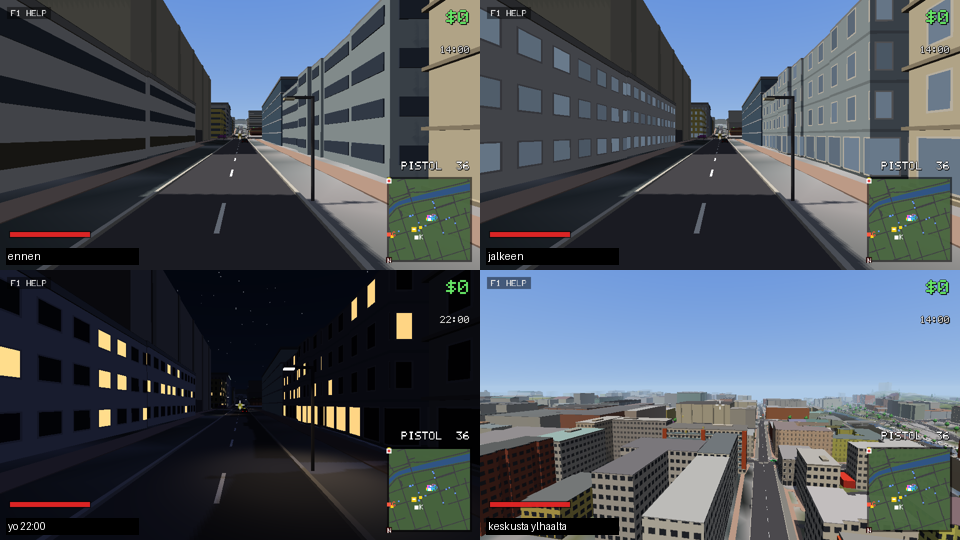
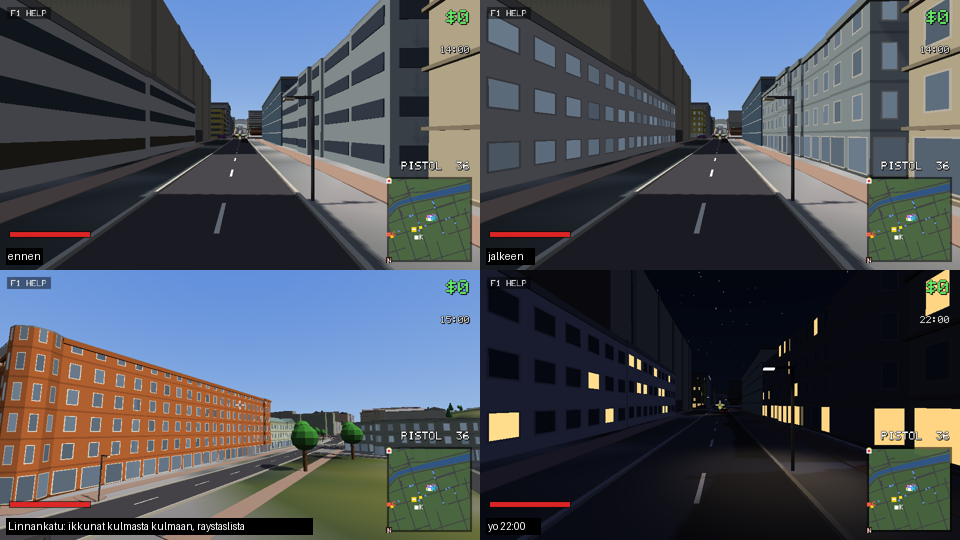
Facades: windows fitted to each wall, cornices on the old town
- Windows were laid out from the world's origin, so walls began and
  ended in half windows. Each wall now holds as many whole bays as fit
  its length: the normal's y byte (free on an upright wall) holds how far
  along it a vertex is, in eighths of a bay; a unit building box stores
  it in 255ths and the vertex shader counts bays from its entity's scale.
- Walls are found as runs of vertices facing the same way, not by plane:
  on a long wall the normal's rounding split its ends into two planes and
  the whole of Linnankatu's 120 m front had no windows.
- Old-town buildings get a cornice under the roof (boxes and outlines).

Full suite here (run_tests.py --jobs 4): 60/60; landmark render checks OK.

diff --git a/src/mesh.rs b/src/mesh.rs
@@ -12,7 +12,9 @@ use std::path::Path;
 pub struct Vertex {
     pub pos: [f32; 3],
     /// Unit normal, each axis -1..1 stored as 0..254 (127 is zero); w is
-    /// the facade the shader draws windows of on a wall (0: none).
+    /// the facade the shader draws windows of on a wall (0: none; see
+    /// `set_facade`). A facade's wall is upright, so its y is free and holds
+    /// how far along the wall the vertex is, in window bays.
     pub normal: [u8; 4],
     /// Color 0..255. Alpha is emissive: 0 = lit normally, 255 = glows at
     /// night (headlights, windows, bulbs). On a facade it is instead the
@@ -43,7 +45,8 @@ impl Vertex {
 
     pub fn normal(&self) -> Vec3 {
         let f = |b: u8| (b as f32 - 127.0) / 127.0;
-        v3(f(self.normal[0]), f(self.normal[1]), f(self.normal[2]))
+        let y = if self.normal[3] > 0 { 0.0 } else { f(self.normal[1]) };
+        v3(f(self.normal[0]), y, f(self.normal[2]))
     }
 
     pub fn color(&self) -> Vec3 {
@@ -54,20 +57,36 @@ impl Vertex {
         if self.normal[3] > 0 { 0.0 } else { self.color[3] as f32 / 255.0 }
     }
 
-    /// The facade on this wall (0: none) and its height above the foot (m).
-    pub fn facade(&self) -> (u8, f32) {
-        (self.normal[3], self.color[3] as f32 * FACADE_STEP)
+    /// The facade on this wall (0: none, else as `set_facade` takes it),
+    /// its height above the foot (m) and the byte for how far along it is.
+    pub fn facade(&self) -> (u8, f32, u8) {
+        (self.normal[3], self.color[3] as f32 * FACADE_STEP, self.normal[1])
     }
 
-    /// Mark as facade `id` at `height` m above the building's foot.
-    pub fn set_facade(&mut self, id: u8, height: f32) {
+    /// Mark as facade `id` at `height` m above the building's foot and
+    /// `along` the wall: in eighths of a bay, or with FACADE_SCALED set in
+    /// `id` (a unit mesh its entity stretches), in 255ths of the wall, the
+    /// shader working out the bays from the entity's scale.
+    pub fn set_facade(&mut self, id: u8, height: f32, along: u8) {
         self.normal[3] = id;
+        self.normal[1] = along;
         self.color[3] = (height / FACADE_STEP).round().clamp(0.0, 255.0) as u8;
     }
 }
 
 /// A facade's height above the foot is kept in half metres (up to 127 m).
 pub const FACADE_STEP: f32 = 0.5;
+/// Set in a facade id: the mesh is a unit one its entity scales to size.
+pub const FACADE_SCALED: u8 = 0x80;
+/// The width of a facade's window bays, by facade id (render.rs's `bay`).
+pub fn facade_bay(id: u8) -> f32 {
+    match id & !FACADE_SCALED {
+        1 => 3.0,
+        2 => 2.7,
+        3 => 1.6,
+        _ => 3.3,
+    }
+}
 
 #[derive(Clone, Debug, Default)]
 pub struct Mesh {
@@ -124,7 +143,7 @@ impl Mesh {
             let facade = v.facade();
             *v = Vertex::new(v3(p[0], p[1], p[2]), v3(n[0], n[1], n[2]), v.color(), v.emissive());
             if facade.0 > 0 {
-                v.set_facade(facade.0, facade.1);
+                v.set_facade(facade.0, facade.1, facade.2);
             }
         }
         Ok(())
@@ -147,22 +166,56 @@ impl Mesh {
             let p = turn(v.pos().mul(scale)) + offset;
             let n = turn(v.normal().mul(inv)).norm();
             let mut out = Vertex::new(p, n, v.color().mul(col), v.emissive().max(emissive));
-            let (id, h) = v.facade();
+            let (id, h, along) = v.facade();
             if id > 0 {
-                out.set_facade(id, h * scale.y);
+                out.set_facade(id, h * scale.y, along);
             }
             self.verts.push(out);
         }
         self.indices.extend(src.indices.iter().map(|i| i + base));
     }
 
-    /// Mark the vertices from `from` on as facade `id`, their heights
-    /// measured from the lowest of them (the walls' foot).
-    pub fn mark_facade(&mut self, from: usize, id: u8) {
+    /// Mark the upright walls among the vertices from `from` on as facade
+    /// `id`: heights from the lowest vertex (the walls' foot), and along each
+    /// wall in whole bays, as many as fit its length, so windows sit evenly
+    /// from corner to corner. `scaled`: a unit mesh its entity stretches.
+    pub fn mark_facade(&mut self, from: usize, id: u8, scaled: bool) {
         let foot = self.verts[from..].iter().map(|v| v.pos[1]).fold(f32::INFINITY, f32::min);
-        for v in &mut self.verts[from..] {
-            let h = v.pos[1] - foot;
-            v.set_facade(id, h);
+        // The walls: runs of vertices facing the same way (a box's face, an
+        // outline's side: each is a quad of its own). (Not by plane: on a long
+        // wall the normal's rounding put its two ends in different planes.)
+        let mut walls: Vec<Vec<usize>> = Vec::new();
+        for i in from..self.verts.len() {
+            let v = &self.verts[i];
+            if v.normal().y.abs() > 0.3 {
+                continue;
+            }
+            match walls.last_mut() {
+                Some(w)
+                    if *w.last().unwrap() == i - 1
+                        && self.verts[i - 1].normal[0] == v.normal[0]
+                        && self.verts[i - 1].normal[2] == v.normal[2] =>
+                {
+                    w.push(i)
+                }
+                _ => walls.push(vec![i]),
+            }
+        }
+        let bay = facade_bay(id);
+        for idx in &walls {
+            let n = self.verts[idx[0]].normal();
+            let (tx, tz) = (-n.z, n.x);
+            let at = |v: &Vertex| v.pos[0] * tx + v.pos[2] * tz;
+            let lo = idx.iter().map(|&i| at(&self.verts[i])).fold(f32::INFINITY, f32::min);
+            let hi = idx.iter().map(|&i| at(&self.verts[i])).fold(f32::NEG_INFINITY, f32::max);
+            let len = (hi - lo).max(1e-3);
+            let bays = (len / bay).round().clamp(1.0, 31.0);
+            for &i in idx {
+                let t = (at(&self.verts[i]) - lo) / len;
+                let h = self.verts[i].pos[1] - foot;
+                let (fid, along) = if scaled { (id | FACADE_SCALED, t * 255.0) } else { (id, t * bays * 8.0) };
+                self.verts[i].set_facade(fid, h, along.round() as u8);
+            }
         }
     }
 }
@@ -472,19 +525,50 @@ mod tests {
     fn a_facade_counts_heights_from_its_foot_and_survives_copying() {
         let mut m = Mesh::default();
         m.append_tilted(&cube(), v3(0.0, 5.0, 0.0), (0.0, 0.0, 0.0), v3(4.0, 10.0, 4.0), Vec3::ONE, 0.0);
-        m.mark_facade(0, 2);
+        m.mark_facade(0, 2, false);
         for v in &m.verts {
-            let (id, h) = v.facade();
+            let (id, h, along) = v.facade();
+            if v.normal().y.abs() > 0.5 {
+                assert_eq!(id, 0, "roof and floor aren't walls");
+                continue;
+            }
             assert_eq!(id, 2);
             assert!((h - v.pos[1]).abs() < 0.26, "height {h} at y {}", v.pos[1]); // foot at y 0
             assert_eq!(v.emissive(), 0.0, "a facade's alpha is its height, not a glow");
+            // A 4 m wall holds one 2.7 m bay: its ends are 0 and 1 bay along.
+            assert!(along == 0 || along == 8, "along {along}");
+            assert_eq!(v.normal().y, 0.0);
         }
         // Copied into another mesh, raised and stretched twice as tall.
         let mut big = Mesh::default();
         big.append_tilted(&m, v3(0.0, 3.0, 0.0), (0.5, 0.0, 0.0), v3(1.0, 2.0, 1.0), Vec3::ONE, 0.0);
         let top = big.verts.iter().map(|v| v.facade().1).fold(0.0, f32::max);
         assert!((top - 20.0).abs() < 0.26, "top {top}");
-        assert!(big.verts.iter().all(|v| v.facade().0 == 2));
+        assert!(big.verts.iter().all(|v| v.facade().0 == 2 || v.normal().y.abs() > 0.5));
+        assert!(big.verts.iter().filter(|v| v.facade().0 == 2).all(|v| v.facade().2 == 0 || v.facade().2 == 8));
+
+        // A long wall far from the origin, slightly off the axes (its
+        // normal's rounding put its ends in different planes once): 40 bays.
+        let mut long = Mesh::default();
+        long.append_tilted(
+            &prism(&[(0.0, 0.0), (120.0, 1.3), (120.0, 11.3), (0.0, 10.0)], 0.0, 12.0, Vec3::ONE),
+            v3(-300.0, 0.0, 250.0),
+            (0.0, 0.0, 0.0),
+            Vec3::ONE,
+            Vec3::ONE,
+            0.0,
+        );
+        long.mark_facade(0, 1, false);
+        let along: Vec<u8> = long.verts.iter().filter(|v| v.facade().0 == 1 && v.normal().z.abs() > 0.9).map(|v| v.facade().2).collect();
+        assert!(along.contains(&0) && along.contains(&248), "a 120 m wall from 0 to 31 bays (the most): {along:?}");
+
+        // A unit box its entity scales: along the wall in 255ths.
+        let mut unit = Mesh::default();
+        unit.append_tilted(&cube(), Vec3::ZERO, (0.0, 0.0, 0.0), Vec3::ONE, Vec3::ONE, 0.0);
+        unit.mark_facade(0, 1, true);
+        let walls: Vec<_> = unit.verts.iter().filter(|v| v.facade().0 > 0).collect();
+        assert_eq!(walls.len(), 16);
+        assert!(walls.iter().all(|v| v.facade().0 == 1 | FACADE_SCALED && (v.facade().2 == 0 || v.facade().2 == 255)));
     }
 
     #[test]

diff --git a/src/render.rs b/src/render.rs
@@ -34,15 +34,29 @@ varying vec3 v_color;
 varying vec3 v_normal;
 varying vec3 v_world;
 varying float v_emissive;
-varying vec2 v_facade; // which facade (0: none), height above the foot (m)
+varying vec3 v_facade; // which facade (0: none), height above the foot (m), bays along the wall
+// A facade's window bay (m), as mesh.rs's facade_bay.
+float bay_of(float id) { return id < 1.5 ? 3.0 : (id < 2.5 ? 2.7 : (id < 3.5 ? 1.6 : 3.3)); }
 void main() {
     v_world = (model * vec4(in_pos, 1.0)).xyz;
-    v_normal = (model * vec4((in_normal.xyz / 127.0 - 1.0) * inv_scale2.xyz, 0.0)).xyz;
+    vec3 n = in_normal.xyz / 127.0 - 1.0;
+    // A facade's wall is upright: its normal's y byte holds how far along it is.
+    float id = in_normal.w;
+    float scaled = step(127.5, id);
+    id -= 128.0 * scaled;
+    if (id > 0.5) n.y = 0.0;
+    v_normal = (model * vec4(n * inv_scale2.xyz, 0.0)).xyz;
     v_color = in_color.rgb / 255.0;
     // On a facade the colour's alpha is the height, not a glow.
-    float facade = in_normal.w > 0.5 ? in_normal.w : 0.0;
-    v_facade = vec2(facade, facade > 0.0 ? in_color.a * 0.5 : 0.0);
-    v_emissive = facade > 0.0 ? 0.0 : in_color.a / 255.0;
+    float along = in_normal.y / 8.0;
+    if (scaled > 0.5) {
+        // A unit box stretched by its entity: as many bays as fit the wall.
+        vec3 size = inversesqrt(inv_scale2.xyz);
+        float len = abs(n.x) > abs(n.z) ? size.z : size.x;
+        along = in_normal.y / 255.0 * max(1.0, floor(len / bay_of(id) + 0.5));
+    }
+    v_facade = id > 0.5 ? vec3(id, in_color.a * 0.5, along) : vec3(0.0);
+    v_emissive = id > 0.5 ? 0.0 : in_color.a / 255.0;
     gl_Position = mvp * vec4(in_pos, 1.0);
 }"#;
 
@@ -51,7 +65,7 @@ varying vec3 v_color;
 varying vec3 v_normal;
 varying vec3 v_world;
 varying float v_emissive;
-varying vec2 v_facade;
+varying vec3 v_facade;
 uniform mat4 light_vp;
 uniform vec4 tint;
 uniform vec4 extra; // x = entity glow, y = how wet the ground is, z = snow cover
@@ -100,17 +114,16 @@ float hash(vec2 p) {
 // 4 new render (big dark-framed windows, shops below). `wall` is the wall's
 // colour; `win` comes back 1 in a window that's lit at night, `pane` 1 on
 // glass (it mirrors the sky after lighting).
-vec3 facade(float id, float y, vec3 n, vec3 wall, out float win, out float pane) {
+// `along` counts bays from the wall's corner (whole ones fit its length).
+vec3 facade(float id, float y, float along, vec3 n, vec3 wall, out float win, out float pane) {
     win = 0.0;
-    vec2 t = normalize(vec2(-n.z, n.x));
-    float u = dot(v_world.xz, t);
     float fl = floor(y / 3.5);
     float fy = y - fl * 3.5;
     float old = step(id, 1.5);
     float glassy = step(2.5, id) * step(id, 3.5);
-    float bay = id < 1.5 ? 2.9 : (id < 2.5 ? 2.7 : (id < 3.5 ? 1.6 : 3.3));
-    float col = floor(u / bay);
-    float fu = abs(u - (col + 0.5) * bay);
+    float bay = id < 1.5 ? 3.0 : (id < 2.5 ? 2.7 : (id < 3.5 ? 1.6 : 3.3));
+    float col = floor(along);
+    float fu = abs(fract(along) - 0.5) * bay;
     // Shops along the street on the old town's and new buildings' ground floor.
     float shop = (old + step(3.5, id)) * (1.0 - step(0.5, fl)); // facades 1 and 4, ground floor
     float hw = mix(id < 1.5 ? 0.55 : (id < 2.5 ? 0.8 : 0.9), bay * 0.38, shop);
@@ -123,7 +136,9 @@ vec3 facade(float id, float y, vec3 n, vec3 wall, out float win, out float pane)
         frame = 1.0 - inside;
     }
     // (The wall's direction rounded: the normal varies a little across a face.)
-    float h = hash(vec2(col, fl) + floor(n.xz * 4.0 + 0.5) * 97.0);
+    // (Seeded by where the window's middle is, so it's the same all across it.)
+    vec2 mid = v_world.xz - normalize(vec2(-n.z, n.x)) * (fract(along) - 0.5) * bay;
+    float h = hash(floor(mid * 0.5 + 0.25) + vec2(fl * 7.0, 0.0));
     vec3 glass = mix(vec3(0.1, 0.12, 0.15), ambient.rgb * 0.55, 0.25 + 0.35 * h);
     vec3 trim = id < 1.5 ? vec3(0.93, 0.92, 0.88) : (id < 3.5 ? wall * 0.8 : vec3(0.22, 0.22, 0.23));
     // A string course along the old town's floors, and a darker plinth under the shops.
@@ -145,7 +160,7 @@ void main() {
     if (v_facade.x > 0.5 && abs(n.y) < 0.4) {
         // Far off, the pattern would shimmer: it fades to its average.
         float far = smoothstep(110.0, 220.0, length(v_world - eye.xyz));
-        vec3 drawn = facade(v_facade.x, v_facade.y, n, base, lit_window, pane);
+        vec3 drawn = facade(v_facade.x, v_facade.y, v_facade.z, n, base, lit_window, pane);
         base = mix(drawn, base * 0.8, far);
         lit_window *= 1.0 - far;
         pane *= 1.0 - far;

diff --git a/src/script.rs b/src/script.rs
@@ -594,7 +594,7 @@ fn bind(lua: &Lua, eng: &Shared) -> Result<Table> {
                 let from = out.verts.len();
                 out.append_tilted(&src, vec3(&p.get("pos")?, Vec3::ZERO)?, (yaw, 0.0, 0.0), Vec3::ONE, v3(c[0], c[1], c[2]), glow);
                 if let Some(id) = p.get::<Option<u8>>("facade")? {
-                    out.mark_facade(from, id);
+                    out.mark_facade(from, id, false);
                 }
                 continue;
             }
@@ -626,9 +626,10 @@ fn bind(lua: &Lua, eng: &Shared) -> Result<Table> {
             let from = out.verts.len();
             out.append_tilted(&src, vec3(&p.get("pos")?, Vec3::ZERO)?, turn, size, v3(c[0], c[1], c[2]), glow);
             // Windows the shader draws on its walls (see render.rs), counted
-            // up from the part's foot.
+            // up from the part's foot. `facade_scaled`: the mesh is a unit one
+            // its entity stretches to size (a building box).
             if let Some(id) = p.get::<Option<u8>>("facade")? {
-                out.mark_facade(from, id);
+                out.mark_facade(from, id, p.get::<Option<bool>>("facade_scaled")?.unwrap_or(false));
             }
         }
         let tris = out.tri_count();
